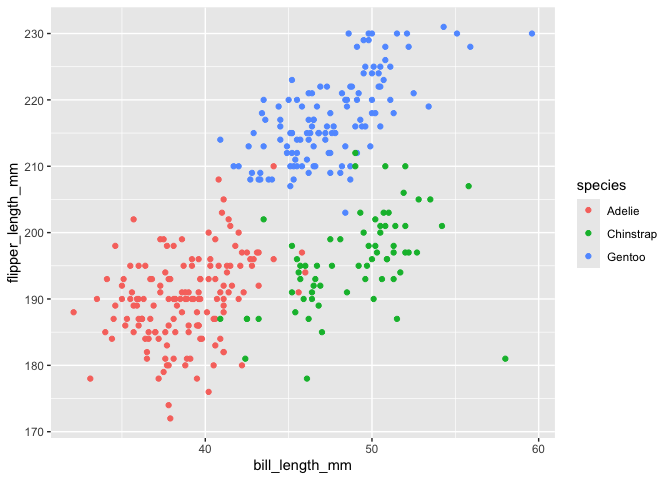
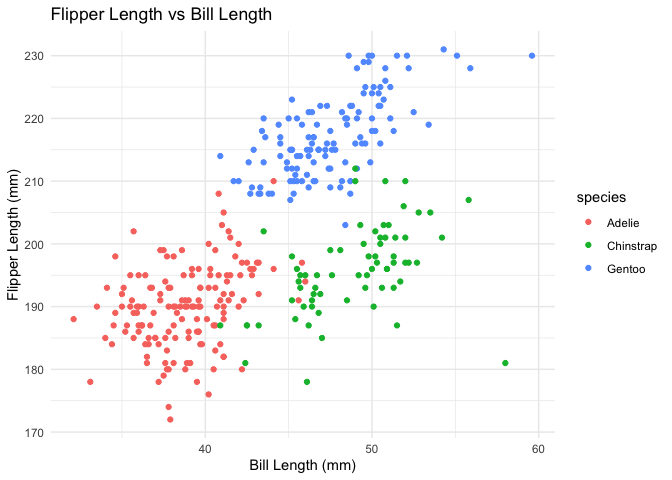
updated

diff --git a/p8105_hw1_dw3093.md b/p8105_hw1_dw3093.md
@@ -9,16 +9,6 @@ library(ggplot2)
 library(tidyverse)
 ```
 
-    ## ── Attaching core tidyverse packages ──────────────────────── tidyverse 2.0.0 ──
-    ## ✔ dplyr     1.1.4     ✔ readr     2.1.5
-    ## ✔ forcats   1.0.0     ✔ stringr   1.5.1
-    ## ✔ lubridate 1.9.3     ✔ tibble    3.2.1
-    ## ✔ purrr     1.0.2     ✔ tidyr     1.3.1
-    ## ── Conflicts ────────────────────────────────────────── tidyverse_conflicts() ──
-    ## ✖ dplyr::filter() masks stats::filter()
-    ## ✖ dplyr::lag()    masks stats::lag()
-    ## ℹ Use the conflicted package (<http://conflicted.r-lib.org/>) to force all conflicts to become errors
-
 \##Question 1:
 
 ``` r
@@ -38,7 +28,7 @@ x="Bill Length (mm)",
 y="Flipper Length (mm)") + theme_minimal()
 ```
 
-![](p8105_hw1_dw3093_files/figure-gfm/unnamed-chunk-2-1.png)<!-- -->
+![](p8105_hw1_dw3093_files/figure-gfm/unnamed-chunk-1-1.png)<!-- -->
 
 ``` r
 ggsave("penguin_scatterplot.png")
